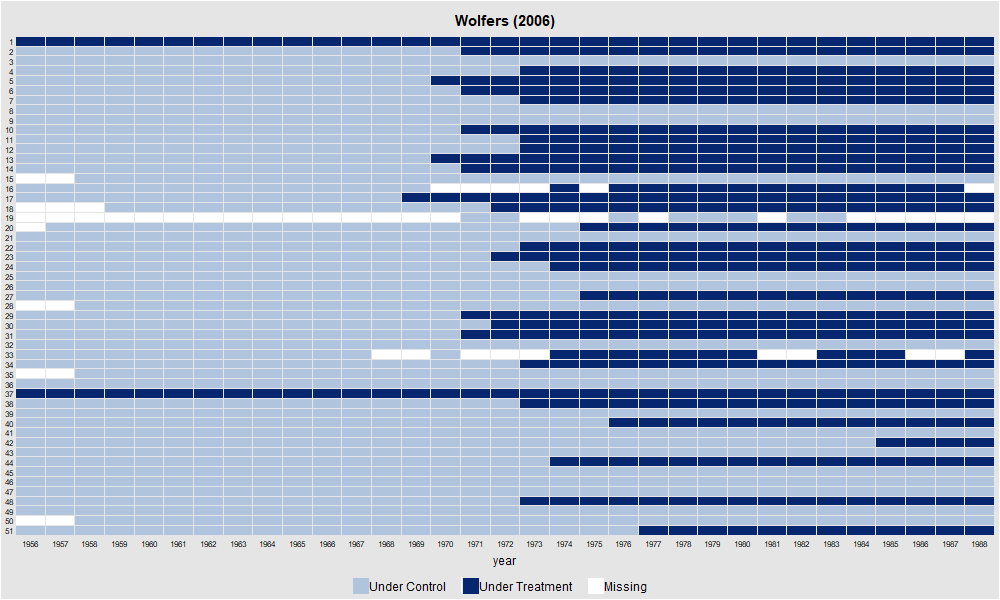
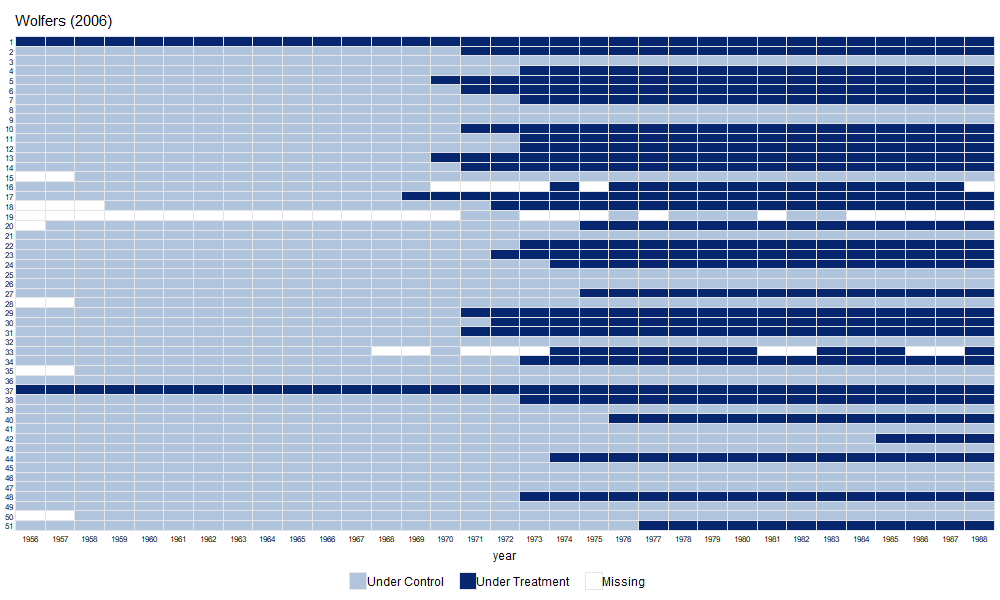
render

diff --git a/did_book_final/docs/chapters/ch06.html b/did_book_final/docs/chapters/ch06.html
@@ -235,7 +235,7 @@ window.Quarto = {
   <li><a href="#cq33-callaway-santanna-estimators" id="toc-cq33-callaway-santanna-estimators" class="nav-link" data-scroll-target="#cq33-callaway-santanna-estimators">CQ#33: Callaway &amp; Sant’Anna Estimators</a></li>
   <li><a href="#cq34-de-chaisemartin-dhaultfœuille-estimators" id="toc-cq34-de-chaisemartin-dhaultfœuille-estimators" class="nav-link" data-scroll-target="#cq34-de-chaisemartin-dhaultfœuille-estimators">CQ#34: de Chaisemartin &amp; D’Haultfœuille Estimators</a></li>
   <li><a href="#cq35-borusyak-jaravel-spiess-estimators" id="toc-cq35-borusyak-jaravel-spiess-estimators" class="nav-link" data-scroll-target="#cq35-borusyak-jaravel-spiess-estimators">CQ#35: Borusyak, Jaravel &amp; Spiess Estimators</a></li>
-  <li><a href="#figure-6.3-four-panel-comparison" id="toc-figure-6.3-four-panel-comparison" class="nav-link" data-scroll-target="#figure-6.3-four-panel-comparison">Figure 6.3: Four-Panel Comparison</a></li>
+  <li><a href="#four-panel-comparison" id="toc-four-panel-comparison" class="nav-link" data-scroll-target="#four-panel-comparison">Four-Panel Comparison</a></li>
   </ul>
 <div class="toc-actions"><ul><li><a href="https://github.com/Credible-Answers/did_book/edit/main/chapters/ch06.qmd" class="toc-action"><i class="bi bi-github"></i>Edit this page</a></li><li><a href="https://github.com/Credible-Answers/did_book/issues/new" class="toc-action"><i class="bi empty"></i>Report an issue</a></li></ul></div></nav>
     </div>
@@ -1617,7 +1617,7 @@ Treatment model: none
 Control: Not yet Treated</code></pre>
 </div>
 <div id="tabset-9-2" class="tab-pane" role="tabpanel" aria-labelledby="tabset-9-2-tab">
-<div class="code-copy-outer-scaffold"><div class="sourceCode" id="cb43"><pre class="sourceCode r code-with-copy"><code class="sourceCode r"><span id="cb43-1"><a href="#cb43-1" aria-hidden="true" tabindex="-1"></a><span class="fu">library</span>(haven); <span class="fu">library</span>(did)</span>
+<div class="code-copy-outer-scaffold"><div class="sourceCode" id="cb43"><pre class="sourceCode r code-with-copy"><code class="sourceCode r"><span id="cb43-1"><a href="#cb43-1" aria-hidden="true" tabindex="-1"></a><span class="fu">library</span>(haven); <span class="fu">library</span>(did);<span class="fu">library</span>(dplyr)</span>
 <span id="cb43-2"><a href="#cb43-2" aria-hidden="true" tabindex="-1"></a><span class="fu">load</span>(<span class="fu">url</span>(<span class="st">"https://raw.githubusercontent.com/Credible-Answers/did_book/main/cc_xd_didtextbook_2025_9_30/Data%20sets/Wolfers%202006/wolfers2006_didtextbook.RData"</span>))</span>
 <span id="cb43-3"><a href="#cb43-3" aria-hidden="true" tabindex="-1"></a>df7 <span class="ot">&lt;-</span> df <span class="sc">%&gt;%</span> <span class="fu">mutate</span>(<span class="at">cohort_cs =</span> <span class="fu">ifelse</span>(<span class="fu">is.na</span>(cohort) <span class="sc">|</span> cohort <span class="sc">==</span> <span class="dv">0</span>, <span class="dv">0</span>, cohort))</span>
 <span id="cb43-4"><a href="#cb43-4" aria-hidden="true" tabindex="-1"></a>cs_out <span class="ot">&lt;-</span> <span class="fu">att_gt</span>(<span class="at">yname =</span> <span class="st">"div_rate"</span>, <span class="at">gname =</span> <span class="st">"cohort_cs"</span>,</span>
@@ -1820,7 +1820,7 @@ Average number of time periods over which a treatment's effect is accumulated = 
    Placebo_7 |  .0181658   .1033329  -.1843629   .2206946        209         26
    Placebo_8 |   .073694   .1259978  -.1732571   .3206451        207         26
    Placebo_9 |  .0983373   .1380443  -.1722246   .3688992        205         26
-  Placebo_10 |  .0397753   .1524889  -.2591  .3386506        205         26
+  Placebo_10 |  .0397753   .1524889  -.2591      .3386506        205         26
   Placebo_11 |  .0396775   .1616889  -.2772288   .3565838        203         26
   Placebo_12 |  .0539247   .1697544  -.2787899   .3866393        181         25
   Placebo_13 |  .0256646   .1832985  -.3335925   .3849217        160         24
@@ -1859,8 +1859,8 @@ Test of joint nullity of the effects : p-value = 0.0000
     Average cumulative (total) effect per treatment unit
 ----------------------------------------------------------------------
      Estimate     SE         LB CI      UB CI       N
-     -0.05310  0.10473   -0.25836    0.15216     903
-Average number of time periods: 6.2285
+     -0.01511  0.09874     -0.20864    0.17843     837
+Average number of time periods: 6.9296
 
 ----------------------------------------------------------------------
      Testing the parallel trends and no anticipation assumptions
@@ -1875,12 +1875,12 @@ Placebo_6    0.00629  0.10010 -0.18990 0.20247 213 26
 Placebo_7    0.01817  0.10333 -0.18436 0.22069 209 26
 Placebo_8    0.07369  0.12600 -0.17326 0.32065 207 26
 Placebo_9    0.09834  0.13804 -0.17222 0.36890 205 26
-Placebo_10   0.03978  0.15249 -0.25910 0.33865 205 26
-Placebo_11   0.03968  0.16169 -0.27723 0.35658 203 26
-Placebo_12   0.05392  0.16975 -0.27879 0.38664 181 25
-Placebo_13   0.02566  0.18330 -0.33359 0.38492 160 24
+Placebo_10   0.04206  0.15274 -0.25730 0.34141 204 26
+Placebo_11   -0.01215 0.13266 -0.27216 0.24786 199 26
+Placebo_12   -0.05783 0.14225 -0.33665 0.22098 194 26
+Placebo_13   0.02566  0.18330 -0.33359 0.38492 151 23
 
-Test of joint nullity of the placebos : p-value = 0.5254</code></pre>
+Test of joint nullity of the placebos : p-value = 0.0000</code></pre>
 </div>
 <div id="tabset-10-3" class="tab-pane" role="tabpanel" aria-labelledby="tabset-10-3-tab">
 <div class="code-copy-outer-scaffold"><div class="sourceCode" id="cb51"><pre class="sourceCode python code-with-copy"><code class="sourceCode python"><span id="cb51-1"><a href="#cb51-1" aria-hidden="true" tabindex="-1"></a><span class="im">import</span> pandas <span class="im">as</span> pd</span>
@@ -1936,7 +1936,7 @@ Placebo_13  0.0256646  0.1832985 -0.3335925  0.3849217  160.0      24.0</code></
 </div>
 </div>
 </div>
-<p><strong>Interpretation:</strong> All three implementations produce identical estimates. Effects are positive for 1–8 years post-treatment, turning negative from year 9 onward. Average total effect = −0.053 (p &gt; 0.10). All 13 placebos are insignificant (joint test p = 0.53), supporting parallel trends.</p>
+<p><strong>Interpretation:</strong> Effects are positive for 1–8 years post-treatment, turning negative from year 9 onward. Average total effect = −0.015 (p &gt; 0.10). All 13 placebos are individually insignificant, but the joint test rejects (p &lt; 0.01).</p>
 <hr>
 </section>
 <section id="cq35-borusyak-jaravel-spiess-estimators" class="level2">
@@ -2075,11 +2075,11 @@ FE could not be imputed: tau0 tau1 tau2 ... tau12.
 </div>
 <p><strong>Interpretation:</strong> The R (<code>didimputation</code>), Python (<code>did_imputation.py</code>), and Stata (<code>did_imputation</code>) implementations produce identical event-study effects (tau0–tau12) and pretrend estimates when weights are properly specified (<code>wname = "stpop"</code> in R/Python, <code>[aweight=stpop]</code> in Stata) and <code>cohort</code> is set to missing for never-treated groups. The pre-trend estimates computed by <code>did_imputation</code> are coefficients on treatment leads in a TWFER estimated on untreated cells, and as such are not directly comparable to the pre-trend estimates from other estimators.</p>
 </section>
-<section id="figure-6.3-four-panel-comparison" class="level2">
-<h2 class="anchored" data-anchor-id="figure-6.3-four-panel-comparison">Figure 6.3: Four-Panel Comparison</h2>
+<section id="four-panel-comparison" class="level2">
+<h2 class="anchored" data-anchor-id="four-panel-comparison">Four-Panel Comparison</h2>
 <blockquote class="blockquote">
 <blockquote class="blockquote">
-<p>This plot combines the event-study estimates from the four estimators computed in the previous sections (CQ#28: TWFE, CQ#31–32: Sun &amp; Abraham, CQ#33: Callaway &amp; Sant’Anna, CQ#35: Borusyak, Jaravel &amp; Spiess). You must run all previous sections before generating this figure.</p>
+<p>This plot (figure 6.3) combines the event-study estimates from the four estimators computed in the previous sections (CQ#28: TWFE, CQ#31–32: Sun &amp; Abraham, CQ#33: Callaway &amp; Sant’Anna, CQ#35: Borusyak, Jaravel &amp; Spiess). You must run all previous sections before generating this figure.</p>
 </blockquote>
 </blockquote>
 <div class="tabset-margin-container"></div><div class="panel-tabset">
